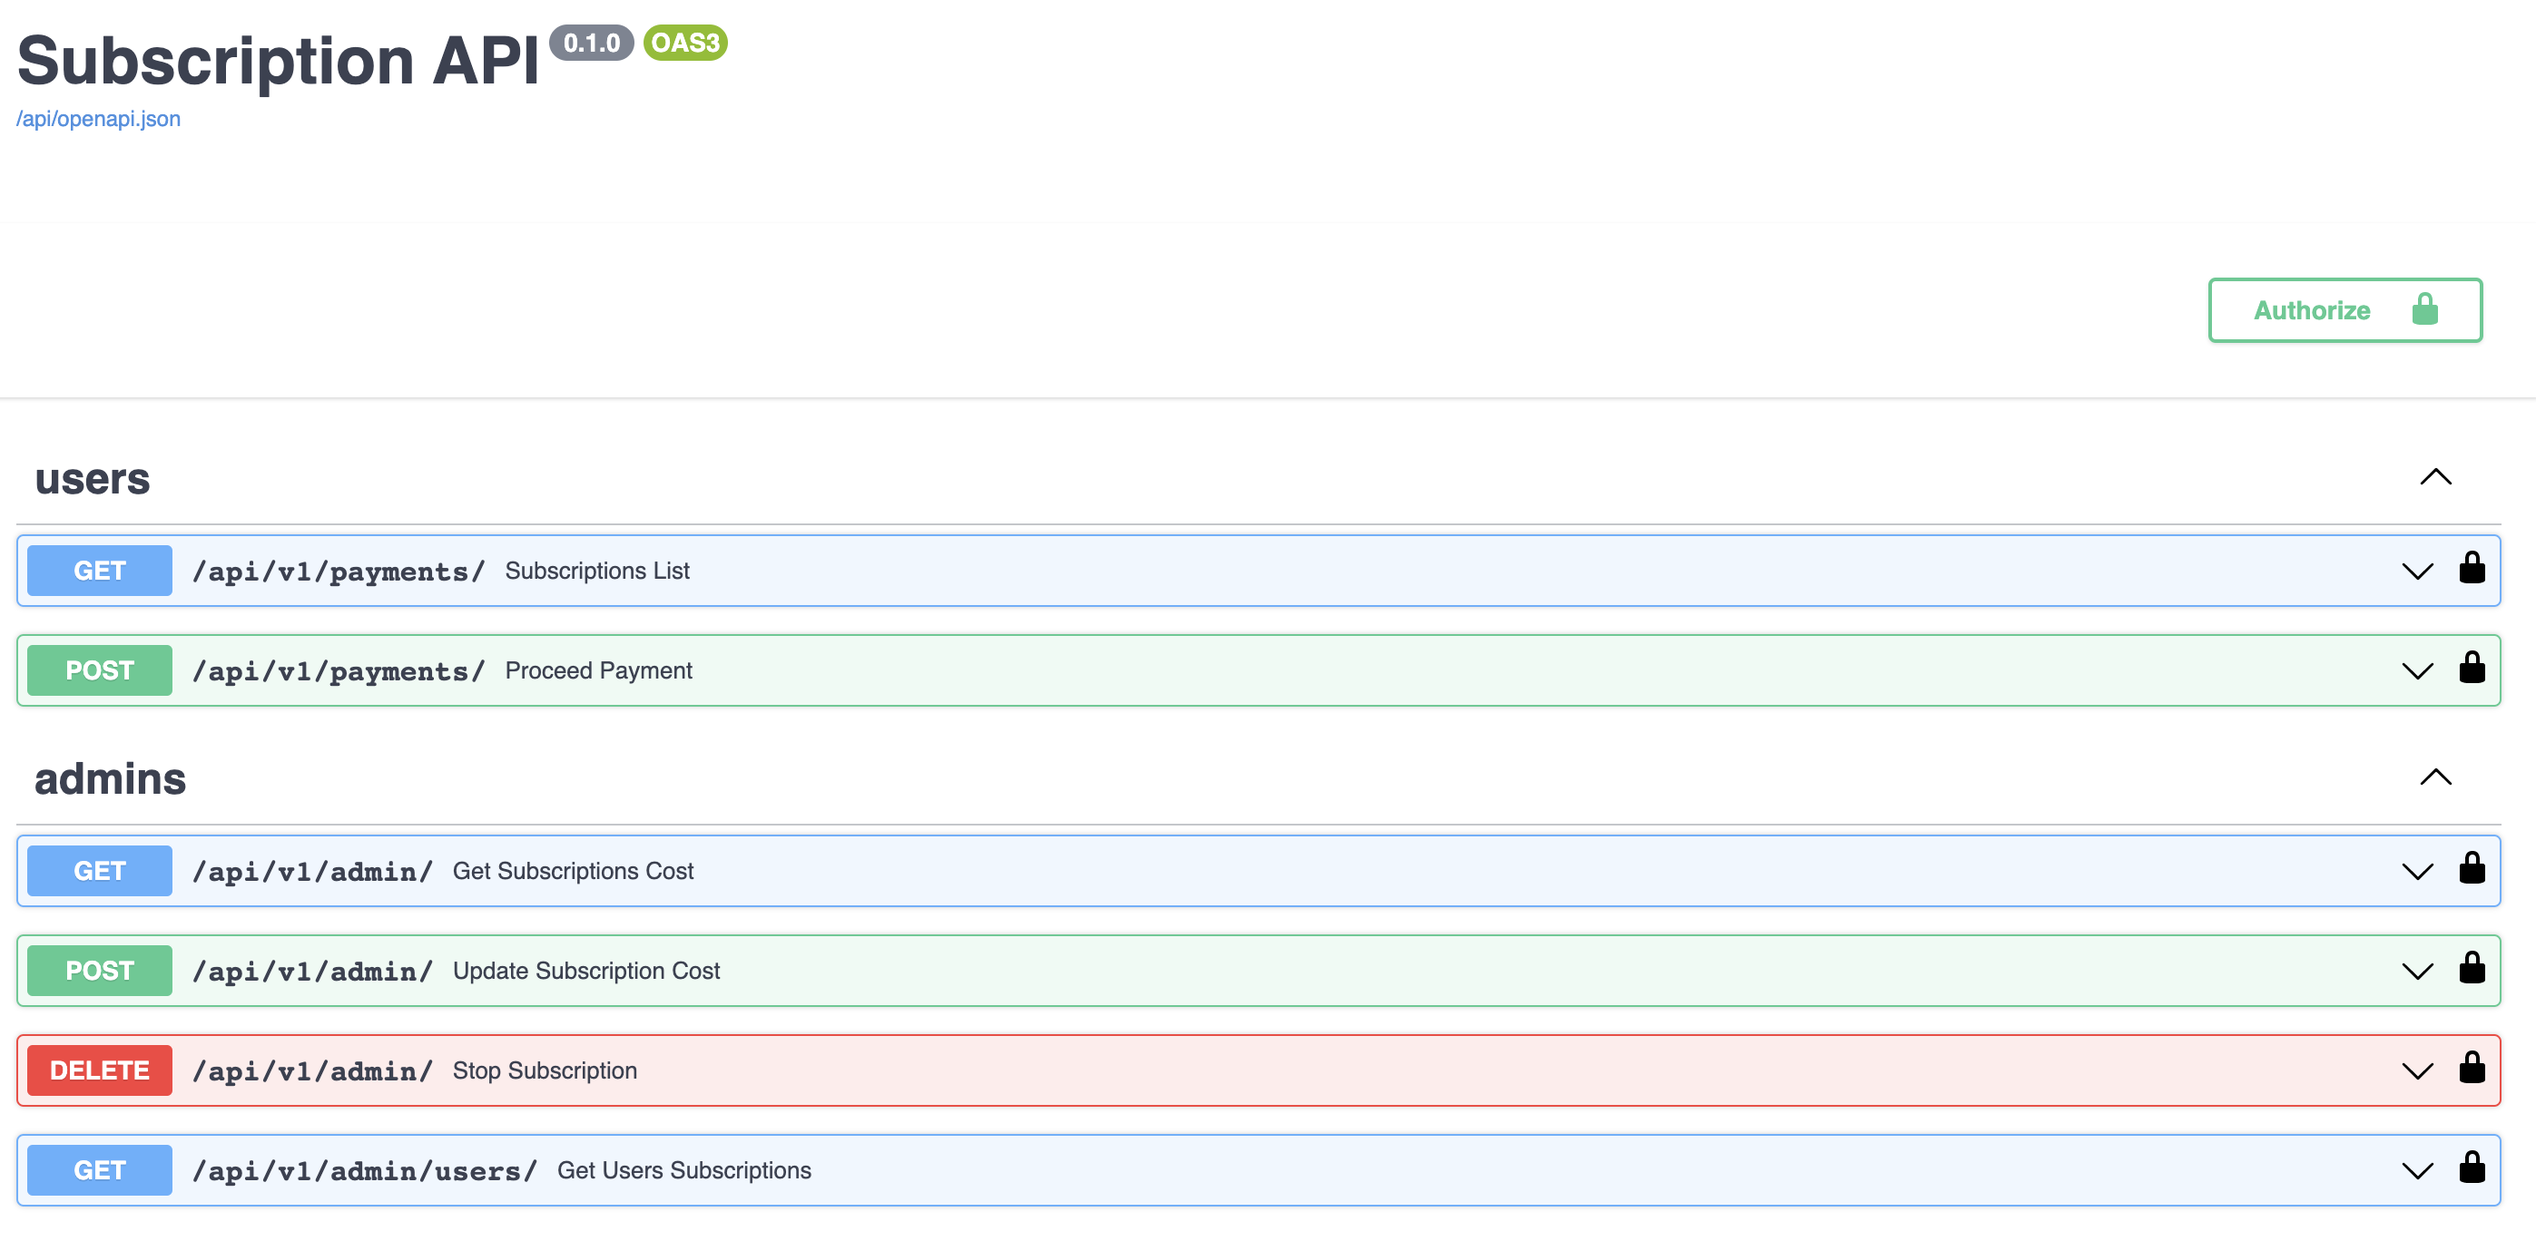
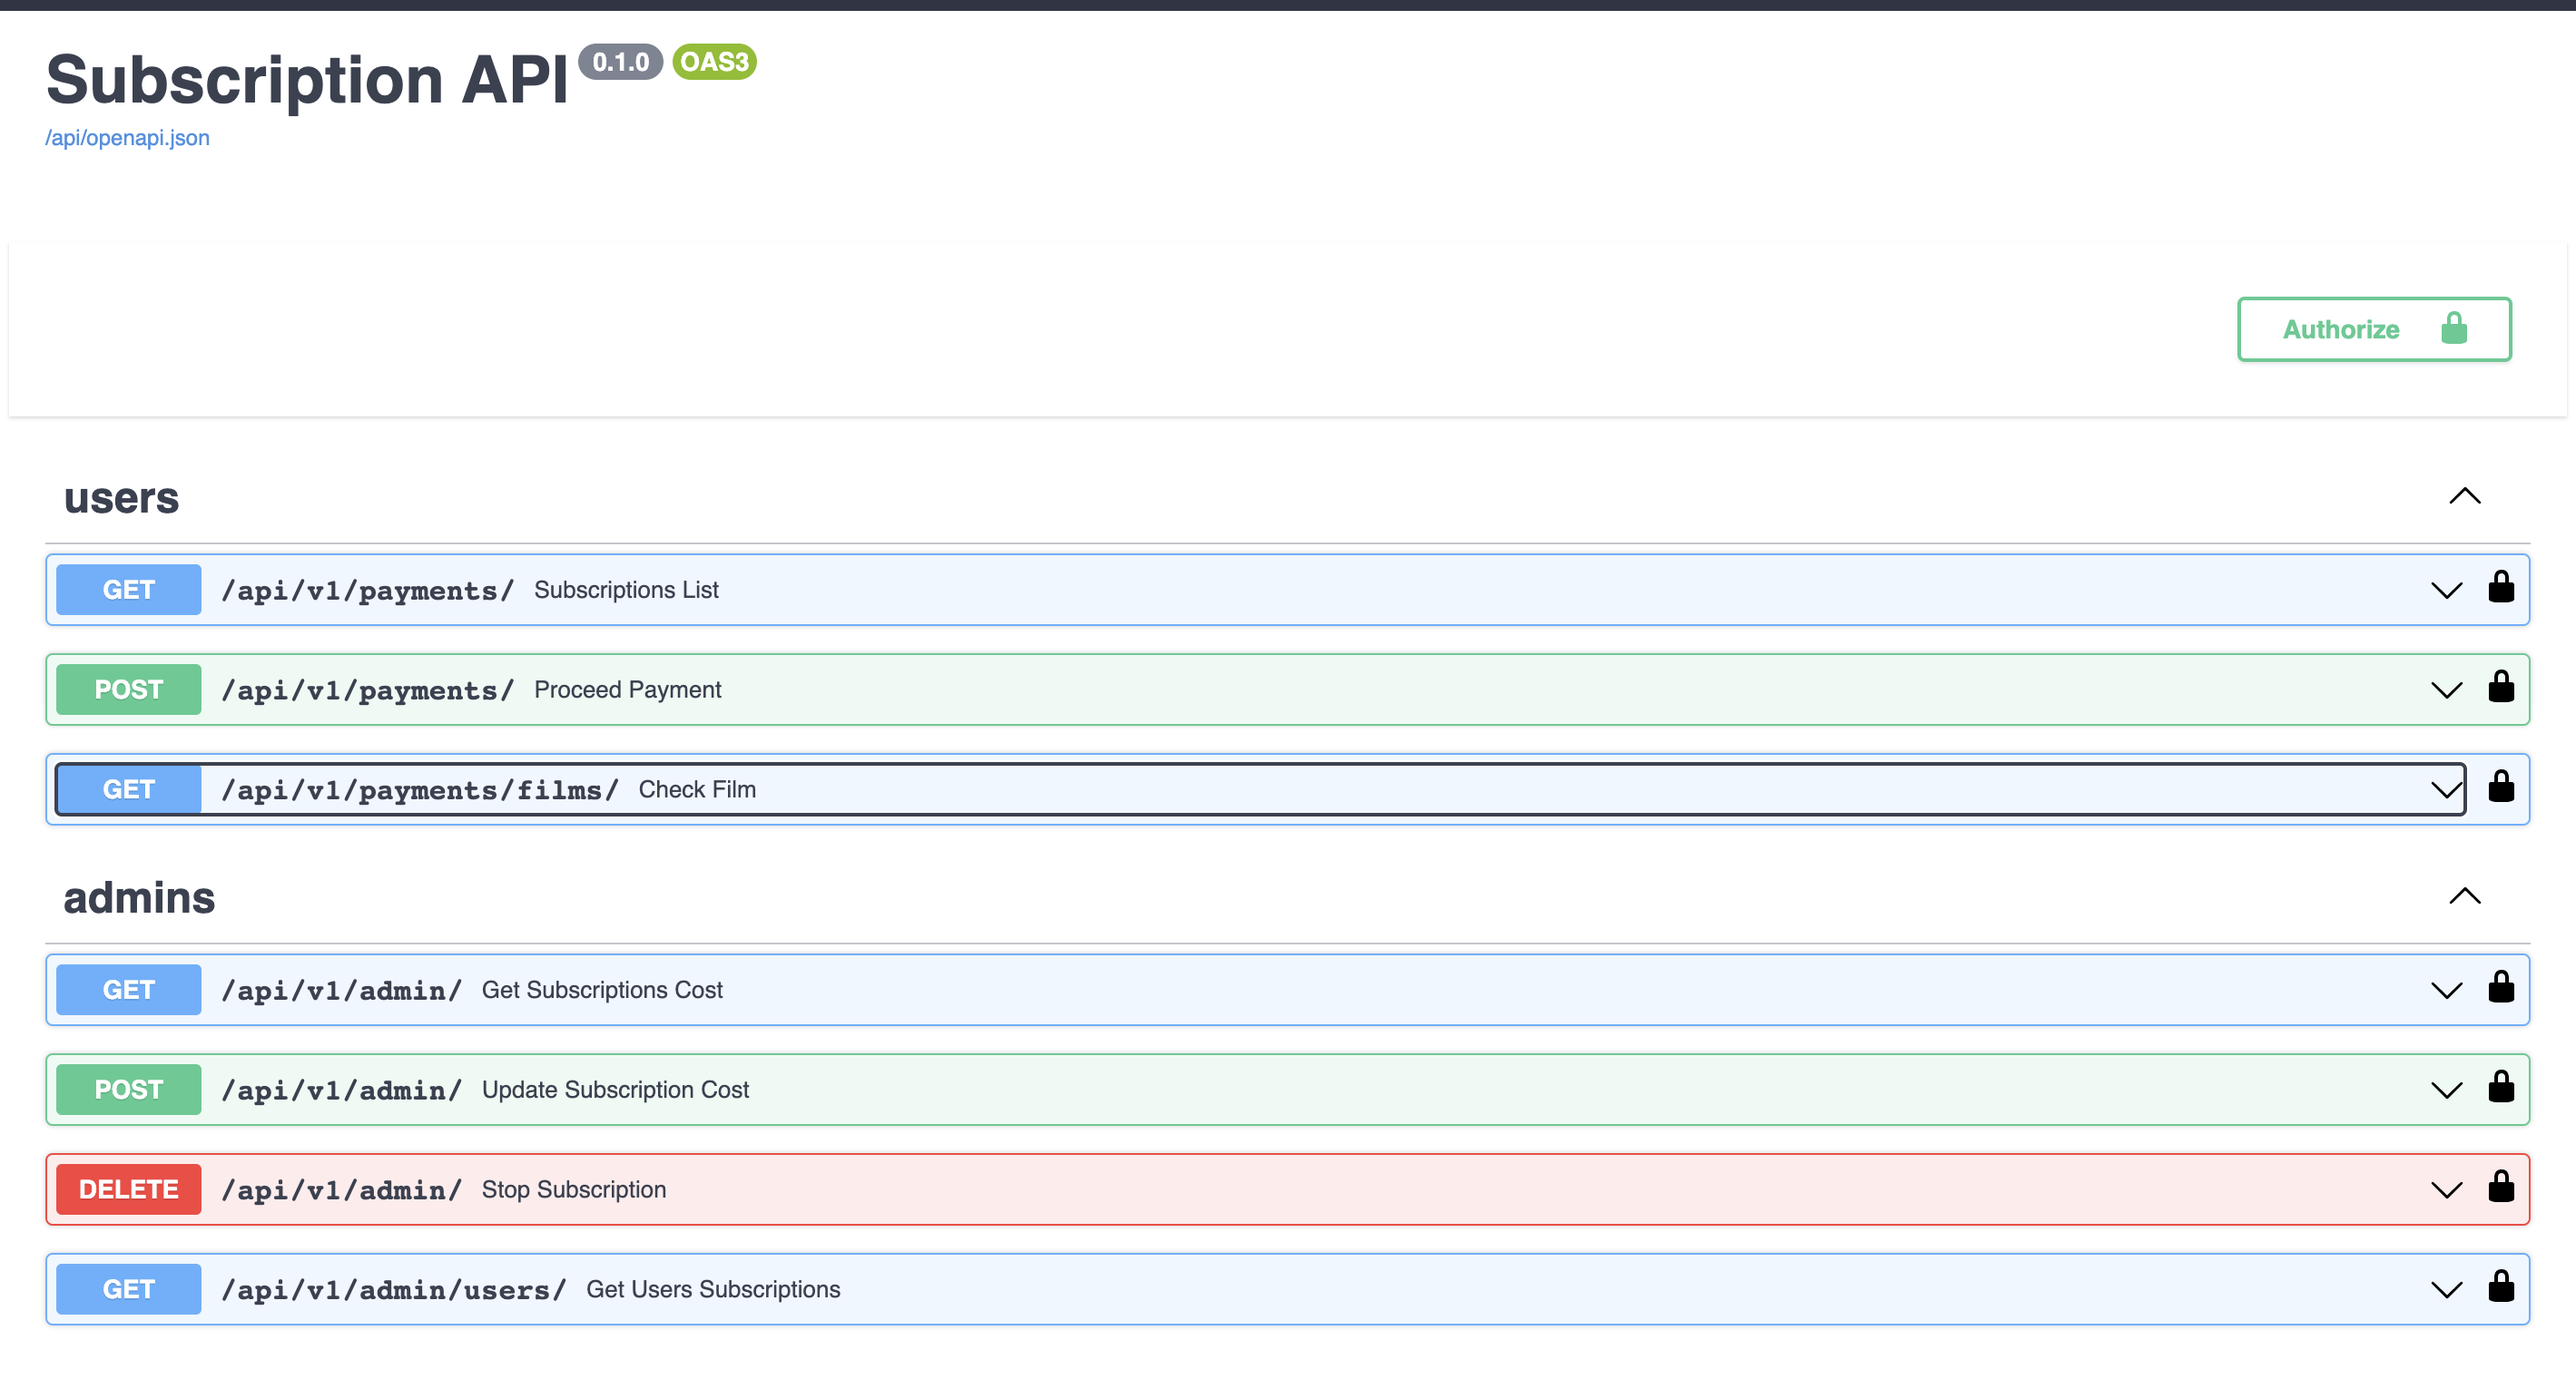
endpoint movies v2

Changed region(s): [[0.0, 0.3377, 0.9964, 0.9825], [0.0, 0.0, 1.0, 0.1228], [0.8719, 0.2149, 0.9964, 0.2763]]

diff --git a/subscription_app/src/services/payments.py b/subscription_app/src/services/payments.py
@@ -8,6 +8,7 @@ from models.payment import PaymentAccepted, Payment, UserSubscription, Subscript
 from models.payment import FilmAvailable
 from services.service import AbstractPaymentStorage, KafkaStorage
 from postgresql.db_settings.db_service import list_user_payments
+from common.movie_data import check_movie_subscription
 
 
 class PaymentHandler:
@@ -43,8 +44,8 @@ class PaymentHandler:
     ) -> FilmAvailable:
         # check subscription
         user_subscriptions = await self.subscriptions_list(user_id)
-        # check if film by suscription in movie service
-        film_by_subscription = True
+        # check if film by subscription in movie service
+        film_by_subscription = check_movie_subscription(film_id=film_id)
         available = True
         if film_by_subscription and len(user_subscriptions) == 0:
             available = False

diff --git a/common/movie_data.py b/common/movie_data.py
@@ -12,19 +12,17 @@ _log_handler = logging.StreamHandler()
 _log_handler.setLevel(logging.DEBUG)
 
 
-logger = logging.getLogger('auth_data')
+logger = logging.getLogger('movie_data')
 logger.addHandler(_log_handler)
 logger.setLevel(logging.DEBUG)
 
 
-def get_data_from_auth(user_id: str) -> Any:
-    params = {'user_id': user_id}
+def check_movie_subscription(film_id: str) -> Any:
     response = requests.get(
-        f'{settings.AUTH_SERVICE}/v1/user_by_id',
-        params=params,
+        f'{settings.MOVIE_SERVICE}/api/v1/films/{film_id}/by_subscription',
     )
     logger.info(response.content)
     if not response.ok:
         return {}
     json_data = json.loads(response.content)
-    return json_data['user']
+    return json_data['by_subscription']

diff --git a/subscription_app/src/api/v1/payment.py b/subscription_app/src/api/v1/payment.py
@@ -37,6 +37,7 @@ async def subscriptions_list(
 ) -> List[UserSubscription]:
     return await service.subscriptions_list(user_id=user_id)
 
+
 @router.get('/films/', description='Check if user can watch film',
             response_model=FilmAvailable,
             response_description='User can watch or not film')

diff --git a/common/core/config.py b/common/core/config.py
@@ -13,6 +13,7 @@ if not IS_DOCKER:
 class Settings(BaseSettings):
 
     AUTH_SERVICE: Optional[str]
+    MOVIE_SERVICE: Optional[str]
 
     class Config:
         env_file = '.env'

diff --git a/README.md b/README.md
@@ -2,7 +2,7 @@
 
 [Репозиторий c дипломной работой](https://github.com/NataliaLaktyushkina/graduate_work)
 
-![Схема](scheme/billing_scheme.drawio.png)
+![Схема](scheme/billing_scheme.png)
 
 [Auth service](https://github.com/NataliaLaktyushkina/Auth_sprint_2)
 [Movie_service](https://github.com/NataliaLaktyushkina/Sprint_4_Async_API)
@@ -42,7 +42,7 @@
 
 **Subscription app**:
 
-*http://127.0.0.1:8101/api/openapi*
+*http://127.0.0.1:80/api/openapi*
 
 API - позволяет пользователям:
 - оплатить подписку,
@@ -51,6 +51,7 @@ API - позволяет пользователям:
   - фильмы с рейтингом выше 7 доступны только по подписке
 
 MOVIE_SERVICE: http://127.0.0.1:90/api/openapi
+
 
 Администратору:
 - Посмотреть список пользователей и их подписок
